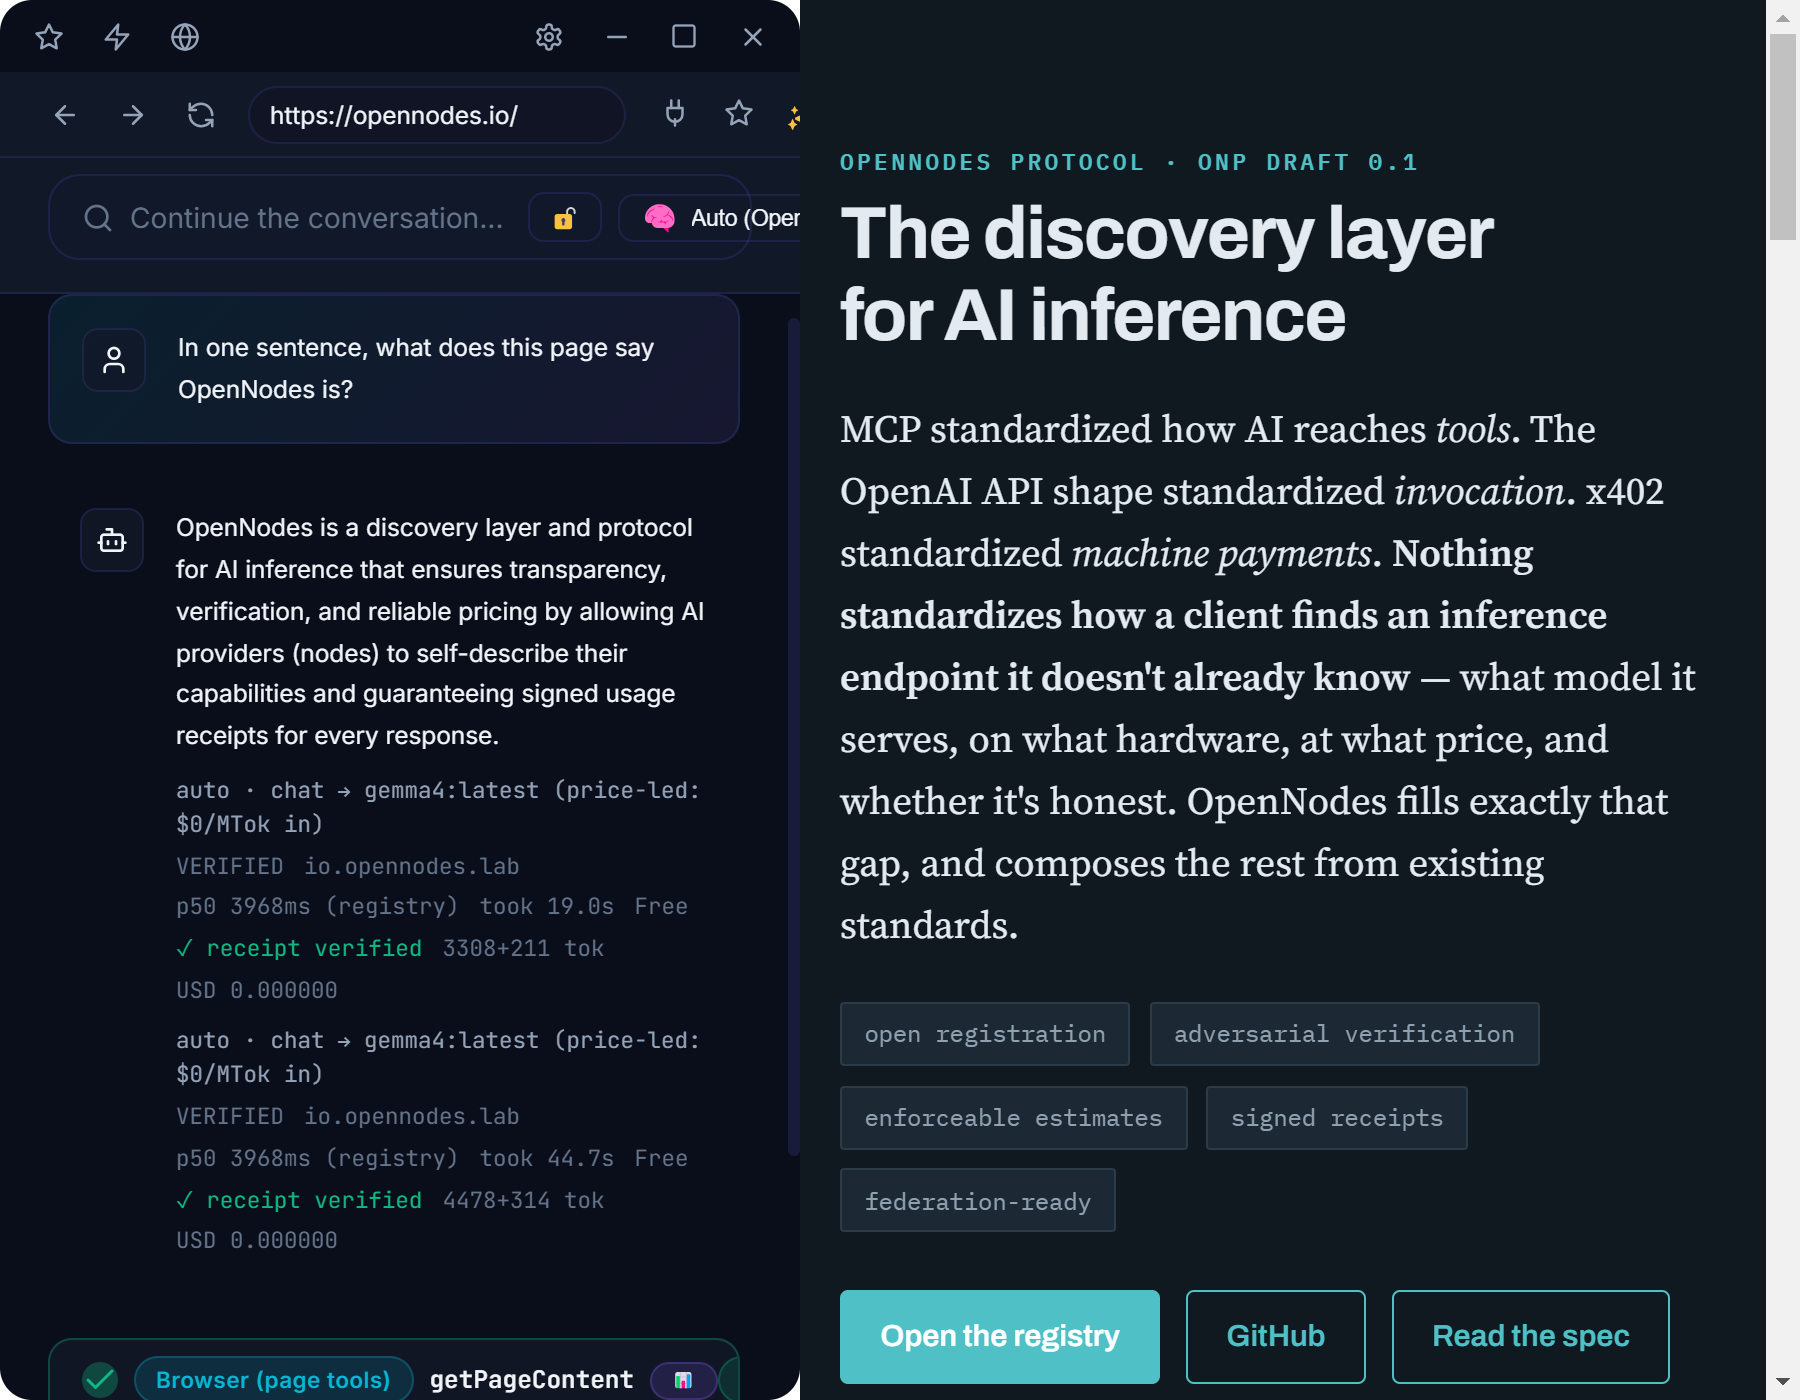
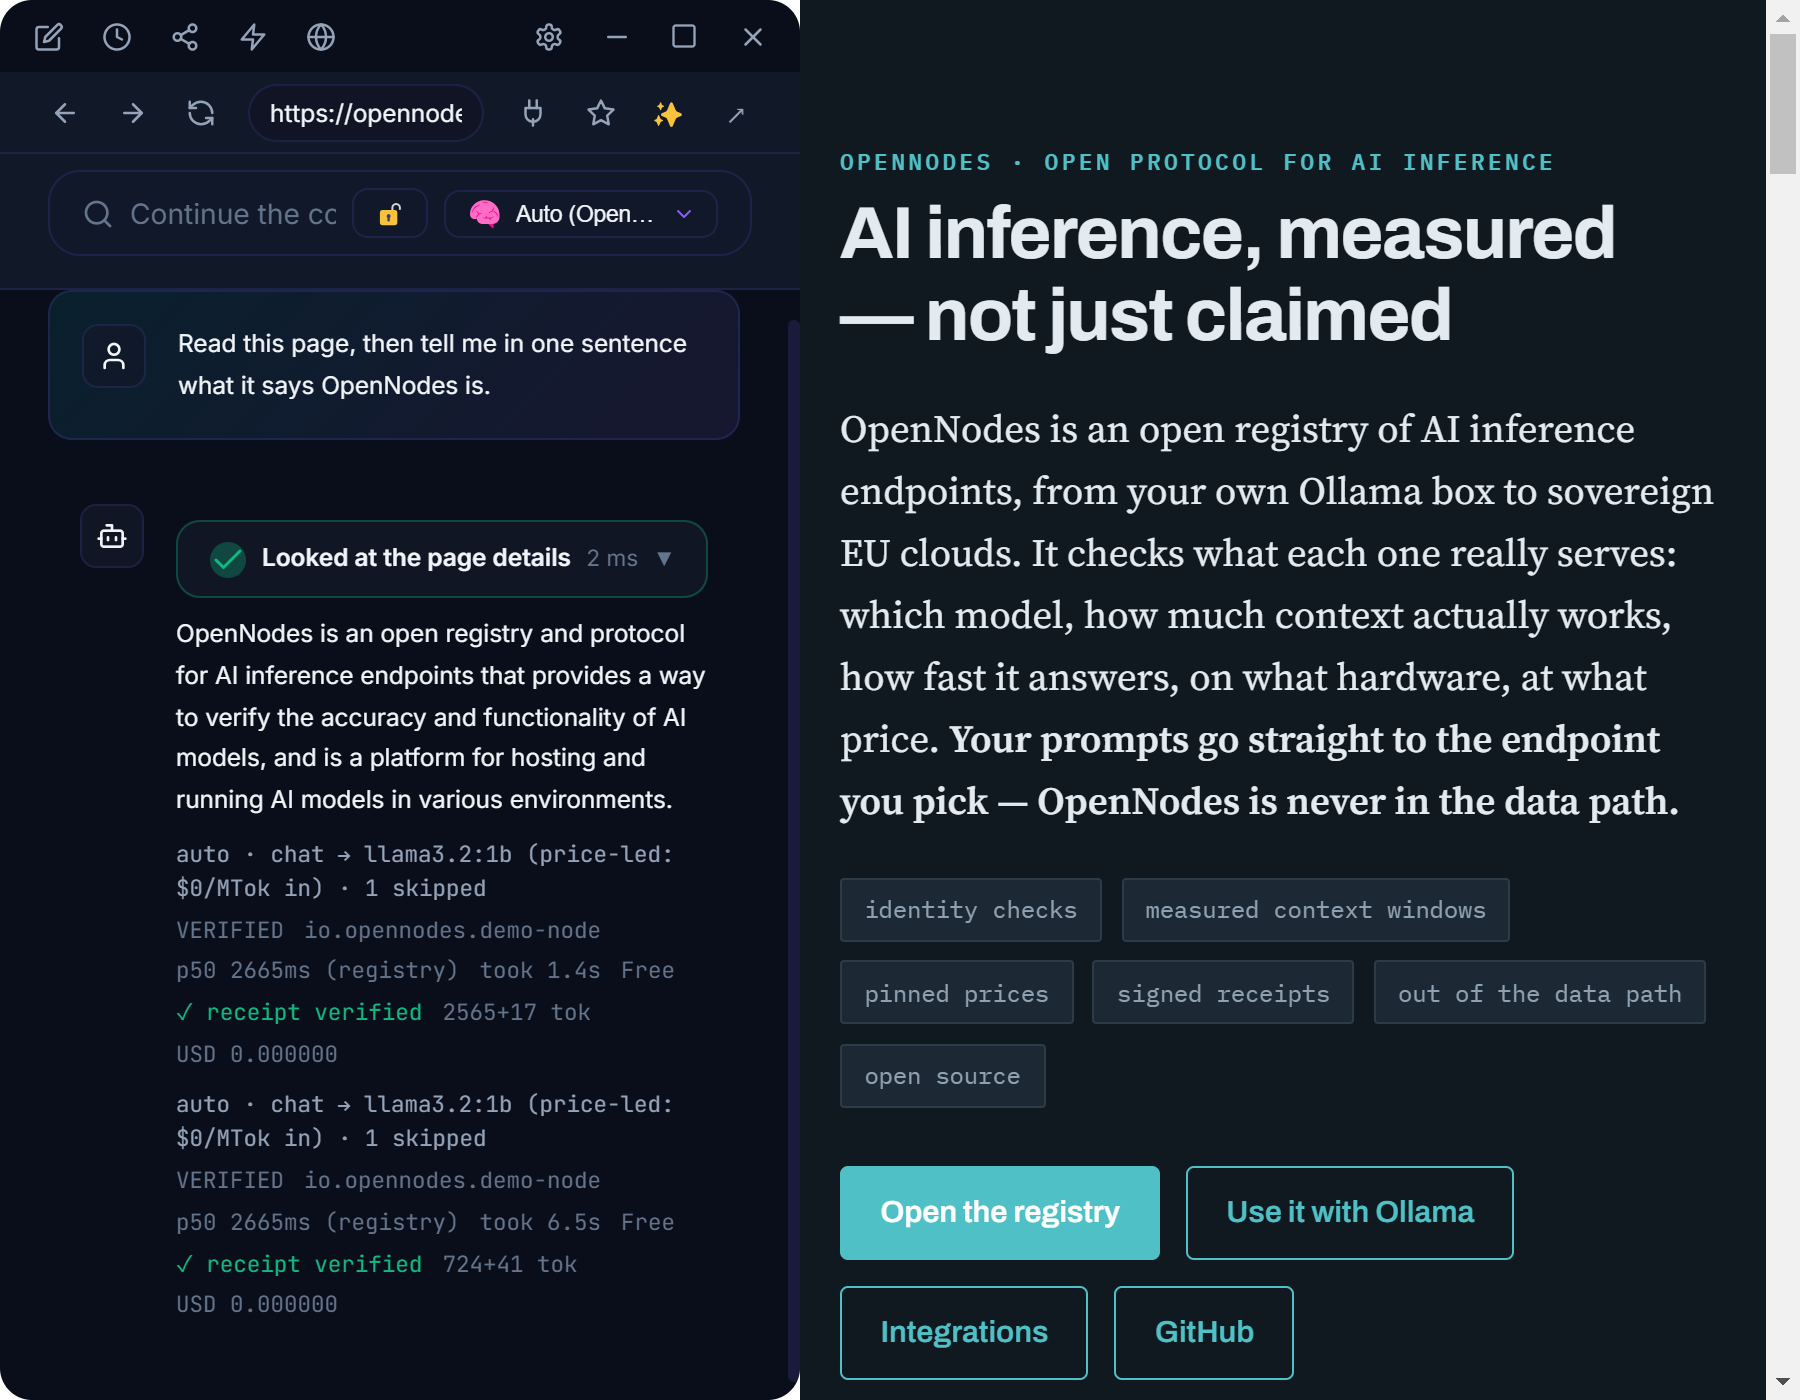
Launch kit: hero still answered by a live verified node
io.opennodes.lab has been delisted. capture.mjs gets --hero (the browser + receipt
still only) and --node=<id> (that node instead of Auto), and fails unless each reply
it shows was served by a node the registry lists now as verified and free. The page
prompt asks the model to read the page, which the 1B nodes otherwise skip.
Re-captured: Auto -> io.opennodes.demo-node, a page tool read, two verified receipts.

diff --git a/CLAUDE.md b/CLAUDE.md
@@ -122,7 +122,7 @@ Verification scripts for the ONP integration:
   - Verified with the mock script and once against the live `demo-node.opennodes.io` using a deliberately stale pin.
   - The re-resolved card must pass the ONP-2 schema and verify against the node's JWKS, and `card.node.id` must match; otherwise the 409 is surfaced ("could not be verified").
 - **Auto (advisor)** — `onp:auto`, listed first among ONP models (`onp/onp-advisor.ts`, `AiService.createCompletion`):
-  - Pool: the registry's admitted nodes (`tier=community` search, 3 today). They serve without an API key; imported listings don't.
+  - Pool: the registry's admitted nodes (`tier=community` search; 2 today, `io.opennodes.helsinki` gemma3:1b and `io.opennodes.demo-node` llama3.2:1b, both verified; `io.opennodes.lab` was delisted). They serve without an API key; imported listings don't.
   - `extractFeatures` runs on the latest user turn, and `recommend` ranks on this device within the policy's tier and price cap.
   - Each pick still goes through the full policy check. The next pick is tried when one is blocked or fails before its response starts, which matters because the lab node is often offline.
   - The `OnpCallRecord.advisor` field (task class, score, reasons, skipped picks) shows as an "auto · chat → model (reason)" line.
@@ -181,7 +181,9 @@ Verification scripts for the ONP integration:
   - basis fields are ignored: `hardware.basis`, `context_capped_from`, `data_policy` (`auto-private` will need that last one)
   - spend is per device. Calls the user didn't make through `AiService` (e.g. the gateway) aren't counted.
 - `OnpTier` includes `attested` / `local` / `lan`. `verified` and `attested` map to the Smart level.
+- **Fixed 2026-10-20: one listing emptied the picker.** The registry now lists imported models it can't invoke (`invocable: false`, only `endpoints.docs`, e.g. `import.modelsdev.cohere/*`). `hostOf` threw `Invalid URL` on their empty endpoint inside `refreshOnpModels`, whose catch kept nothing, so every ONP model and Auto vanished (released 0.1.7 included). `OnpRegistryClient.searchOfferings` now drops offerings without an http(s) endpoint (`isInvocableOffering`); `verify-onp-invocation.ts` lists one.
 - **Bugs (open):**
+  - *ONP models without native tools.* Only private / vLLM / Ollama Local fall back to prompt-based tools. `io.opennodes.helsinki` (gemma3:1b, `supports: [streaming]`) answers `502 (no body)` whenever tools are sent, so every chat turn with tools skips it ("1 skipped" under Auto) and it's unusable when picked directly. Listing it as "tools via prompt" from `supports` lacking `tool_calls` would fix it.
   - *Keyed hosts and the top-40 listing.* Imported offerings join Auto (and the key-host suggestions) only if they're in the top-40 listing. Hosts like router.huggingface.co mostly aren't, because the registry has no host filter.
   - *Heavy prompts.* With a page open, the chat sends every browser + bookmarks tool definition each turn (~3.2k prompt tokens). Without a page, the browser server offers only `navigateTo`. `ui__render` (~900 tokens, 3.2k of a no-page turn's 5.1k characters of tools) goes only to turns that look like they need it (Live UI's "When it helps"). This is slow on small CPU nodes and inflates paid ceilings.
 - **Actions ask first** (added 2026-10-16; `orchestrator/approvals.ts`, `ApprovalCard.tsx`).
@@ -296,7 +298,7 @@ Verification scripts for the ONP integration:
   - *Browser tool hang.* `BrowserService.executeTool` answers "No page is open…" when the view never loaded a page; there, `executeJavaScript` never settles. Every tool also has a ceiling of max(15s, timeoutMs + 5s).
   - *Tool-call header.* The IPC event `mcp:toolCall` now carries `serverId` / `serverName` / `toolName`.
 - **Launch kit:** `docs/launch-kit/` holds the copy, the landing-page snippet, announcement drafts, a fact sheet of allowed claims, and `media/`.
-  - `scripts/launch-kit/capture.mjs` regenerates `media/` from the real built app over CDP (needs ffmpeg).
+  - `scripts/launch-kit/capture.mjs` regenerates `media/` from the real built app over CDP (needs ffmpeg). `--hero` shoots only the browser + receipt still, `--node=<id>` answers with that node instead of Auto, and a run fails unless every reply shown came from a node the registry lists now as verified and free. The hero still was re-captured 2026-10-20 (demo-node) and copied to the opennodes site.
   - The demo is recorded with `Page.startScreencast`, with model waits compressed. Stills are taken at 2× via `Emulation.setDeviceMetricsOverride`, dark and light. The browser shot stitches the app view and the embedded page.
   - Window capture with ffmpeg `gdigrab` returns black frames for this GPU-composited window, which is why the script uses CDP. The window title is `@surge/desktop`.
   - **Capture gotchas:**

diff --git a/docs/launch-kit/README.md b/docs/launch-kit/README.md
@@ -86,7 +86,7 @@ live model replies are compressed to about a second each; everything else plays 
 
 Verified (by the scripts in `packages/core/test/` and in the running app):
 
-- Live discovery from `registry.opennodes.io`; Auto routes among the **admitted** nodes (3 today) — plus imported
+- Live discovery from `registry.opennodes.io`; Auto routes among the **admitted** nodes (2 today: `io.opennodes.helsinki` and `io.opennodes.demo-node`) — plus imported
   catalogs you have saved a key for.
 - Pinned invocation; on `409 price_changed` the node's card is fetched, schema-validated and signature-verified, the
   policy re-applied, and the call retried once or the change surfaced.
@@ -106,9 +106,15 @@ Don't claim:
 
 ```bash
 pnpm --filter @surge/desktop build
-node scripts/launch-kit/capture.mjs            # or --stills / --demo
+node scripts/launch-kit/capture.mjs            # or --stills / --demo / --hero (the browser + receipt still only)
+node scripts/launch-kit/capture.mjs --hero --node=io.opennodes.demo-node   # that node instead of Auto
 ```
 
 Needs ffmpeg on PATH (or `FFMPEG=`), network access, and a local Ollama on `:11434` for the private-mode scenes
 (skipped otherwise). The app runs in a throwaway profile; your settings and keys are not touched. Model replies come
 from live CPU nodes, so a full run takes several minutes.
+
+A run fails unless each OpenNodes reply it shows was served by a node the registry lists right now as verified
+(or attested) and free, so a delisted or key-only node never reaches the media. The live nodes are 1B models: a
+hero take sometimes answers without reading the page, or navigates away (the run then fails); check the stills and
+run again if needed. `io.opennodes.helsinki` (gemma3:1b) answers 502 when tools are sent, so Auto skips it here.
